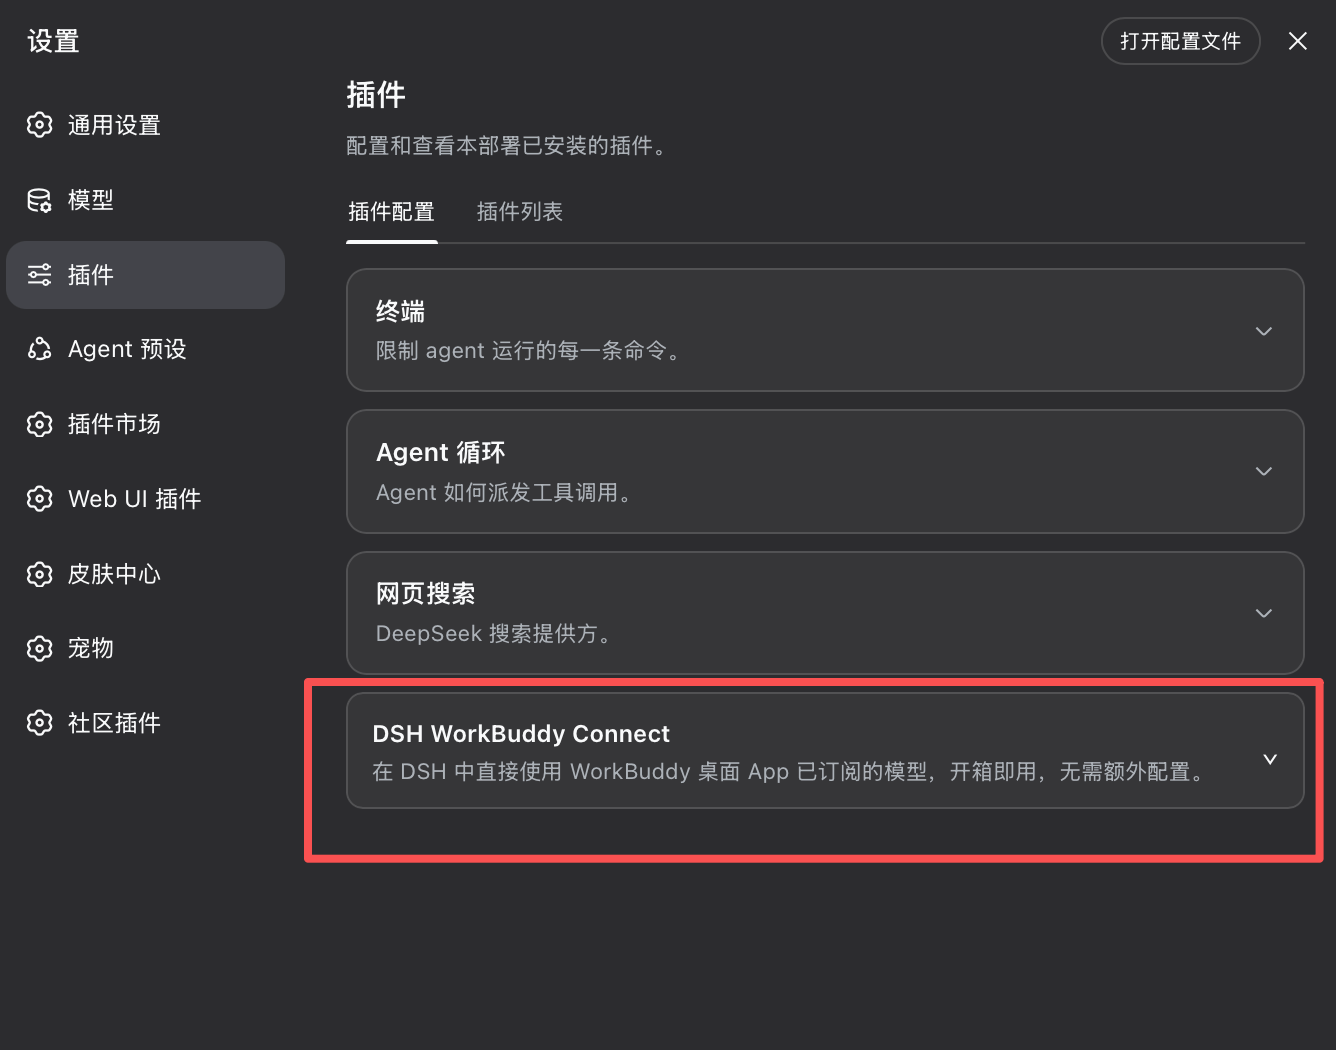
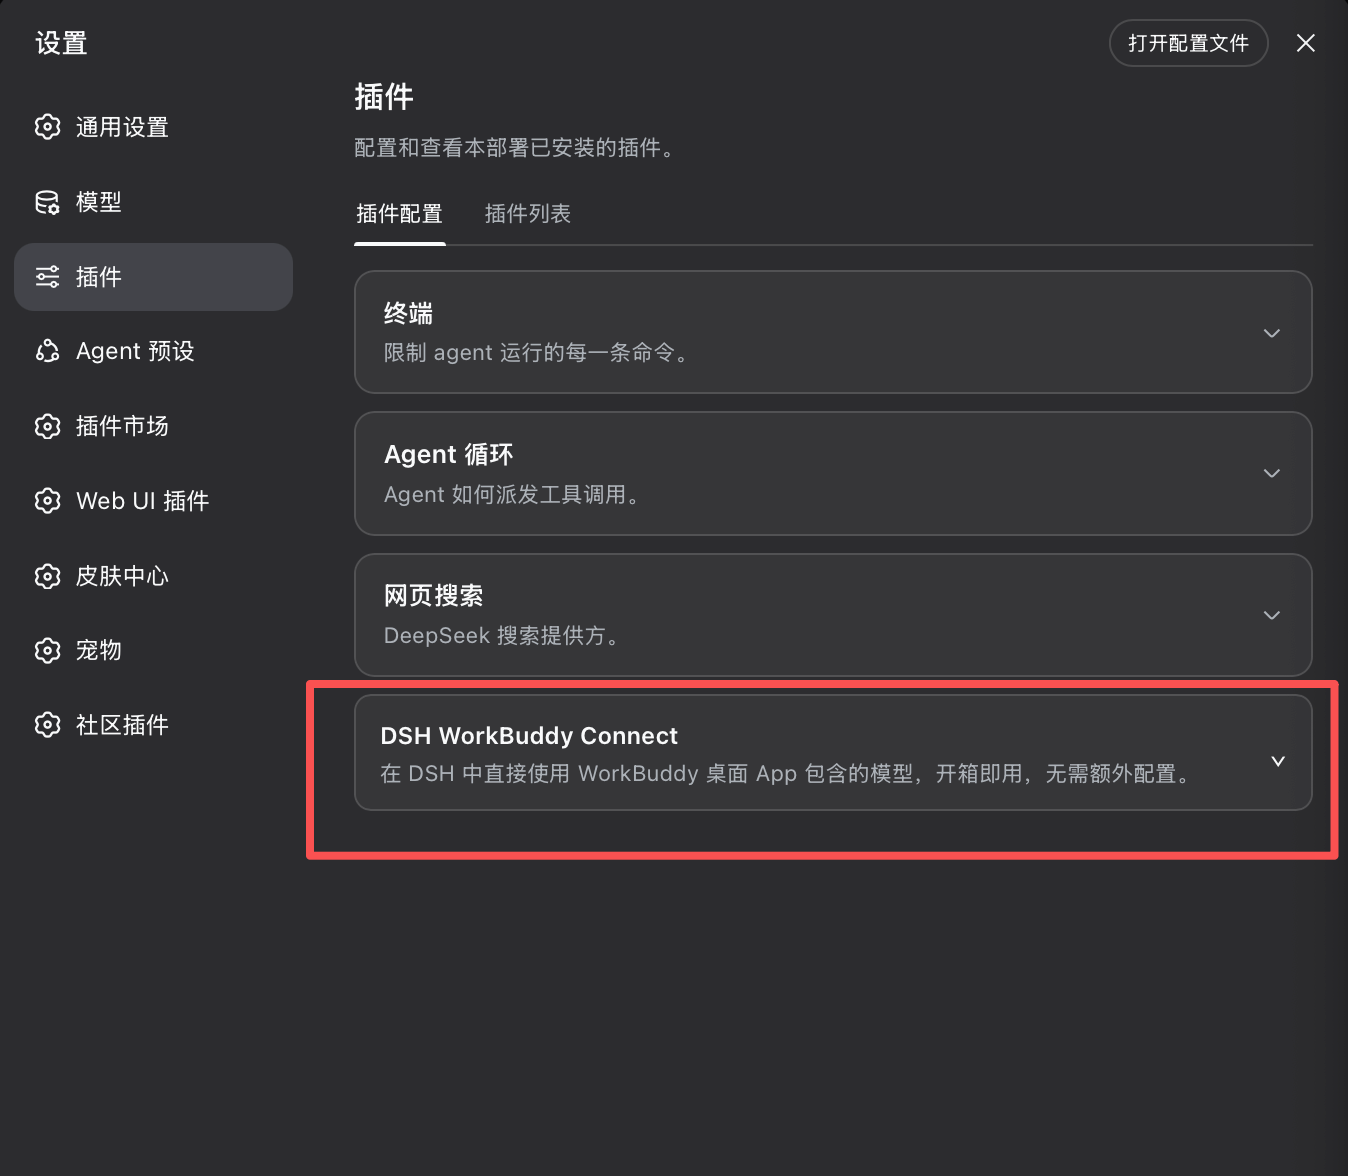
docs: credit-based wording and refreshed card screenshots
WorkBuddy is credit-based, not subscription-based: the card intro and
README copy now say '包含的模型' (models included in the app) instead of
'已订阅的模型', and screenshots 2/3 are recaptured against the new
card text. Package description follows the README wording.

diff --git a/src/client/locales.ts b/src/client/locales.ts
@@ -2,7 +2,7 @@
 
 export const en = {
   title: 'DSH WorkBuddy Connect',
-  intro: "Use the WorkBuddy desktop app's subscribed models directly in DSH — zero configuration, ready out of the box.",
+  intro: 'Use the models in the WorkBuddy desktop app directly in DSH — zero configuration, ready out of the box.',
   expand: 'Expand',
   collapse: 'Collapse',
   loading: 'Loading account…',
@@ -26,7 +26,7 @@ export type WorkBuddySettingsKey = keyof typeof en
 
 export const zh: Record<WorkBuddySettingsKey, string> = {
   title: 'DSH WorkBuddy Connect',
-  intro: '在 DSH 中直接使用 WorkBuddy 桌面 App 已订阅的模型，开箱即用，无需额外配置。',
+  intro: '在 DSH 中直接使用 WorkBuddy 桌面 App 包含的模型，开箱即用，无需额外配置。',
   expand: '展开',
   collapse: '收起',
   loading: '正在读取账号…',
